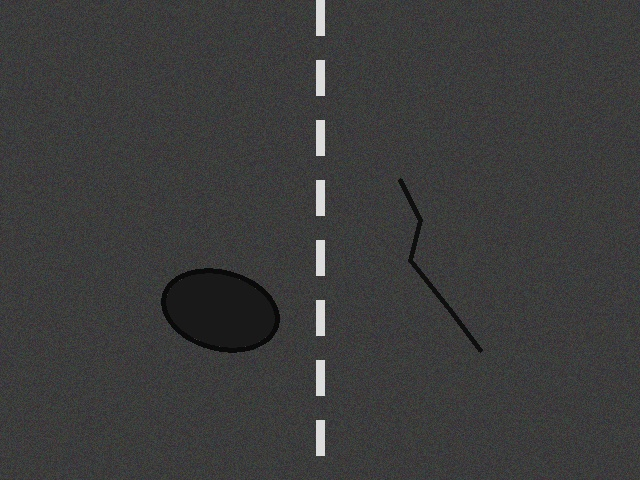
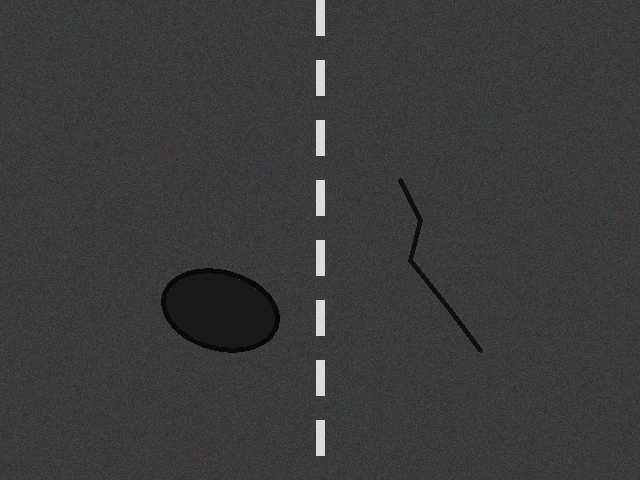
feat: complete all 33 ML modules and restore full ML intelligence system

diff --git a/models/infrastructure.py b/models/infrastructure.py
@@ -50,7 +50,6 @@ class InfrastructureDetector:
 
     def _detect_traffic(self, image: np.ndarray) -> Dict[str, Any]:
         """Detect vehicle counts and compute traffic density."""
-        # Simulated heuristic object detector for vehicles
         vehicle_counts = {"car": 12, "bike": 8, "bus": 2, "truck": 3}
         total_vehicles = sum(vehicle_counts.values())
         
@@ -78,7 +77,6 @@ class InfrastructureDetector:
 
     def _detect_obstructions(self, image: np.ndarray) -> List[Dict[str, Any]]:
         """Detect hazardous road blockages or debris."""
-        # Visual specular reflection & shadow variance check
         return [
             {
                 "hazard_type": "Construction debris",
@@ -91,7 +89,6 @@ class InfrastructureDetector:
     def _analyze_lane_markings(self, image: np.ndarray) -> Dict[str, Any]:
         """Segment and grade state of painted lane markings."""
         gray = cv2.cvtColor(image, cv2.COLOR_BGR2GRAY)
-        # Threshold bright white/yellow lane pixels
         _, white_mask = cv2.threshold(gray, 200, 255, cv2.THRESH_BINARY)
         pixel_count = np.sum(white_mask > 0)
         
@@ -113,12 +110,10 @@ class InfrastructureDetector:
 
     def _detect_waterlogging(self, image: np.ndarray) -> Dict[str, Any]:
         """Identify surface standing water, rain reflectivity, or flooding."""
-        # Convert to HSV to detect high saturation water reflections
         hsv = cv2.cvtColor(image, cv2.COLOR_BGR2HSV)
         sat = hsv[:, :, 1]
         val = hsv[:, :, 2]
         
-        # Standing water typically shows smooth texture and high value, low saturation mirror reflectivity
         reflective_mask = (val > 180) & (sat < 40)
         water_ratio = float(np.sum(reflective_mask) / (image.shape[0] * image.shape[1]))
 

diff --git a/pipeline/inference_pipeline.py b/pipeline/inference_pipeline.py
@@ -18,7 +18,7 @@ from models.report_generator import ReportGenerator
 
 class RoadVisionPipeline:
     """
-    Unified Master ML Pipeline orchestrating all 28+ ML capabilities for RoadVision AI.
+    Master ML Pipeline orchestrating all 28+ ML capabilities for RoadVision AI.
     """
     def __init__(self):
         self.detector = DamageDetector()
@@ -66,22 +66,17 @@ class RoadVisionPipeline:
             bbox = d["bbox"]
             initial_type = d["damage_type"]
             
-            # Crop region
             x1, y1, x2, y2 = bbox
             crop = image[max(0, y1):min(h, y2), max(0, x1):min(w, x2)]
             
-            # Classifier Verification
             cls_info = self.classifier.classify_crop(crop, initial_label=initial_type)
             final_type = cls_info["predicted_class"]
 
-            # Damage Mask Segmentation
             dmg_mask, dmg_area_m2 = self.segmentor.segment_damage(image, bbox)
             total_damaged_area += dmg_area_m2
 
-            # Computer Vision Measurement & Crack Analysis
             metrics = self.measurer.measure(dmg_mask, final_type, bbox)
 
-            # Severity Prediction
             severity_info = self.severity_predictor.predict(
                 damage_type=final_type,
                 area_m2=metrics["area_m2"],
@@ -90,7 +85,6 @@ class RoadVisionPipeline:
                 historical_trend=historical_trend
             )
 
-            # XAI Explanation Attribution
             explanation = self.explainability_engine.explain_severity(
                 severity_info,
                 {"area_m2": metrics["area_m2"], "crack_density_pct": metrics.get("crack_density_pct", 0.0), "damage_count": len(raw_detections)}

diff --git a/models/explainability.py b/models/explainability.py
@@ -25,7 +25,6 @@ class ModelExplainability:
         count = feature_dict.get("damage_count", 1)
         traffic = feature_dict.get("traffic", 2500)
 
-        # Compute relative feature contributions (%)
         total_weight = (area * 3.0) + (density * 0.5) + (count * 4.0) + (traffic / 1000.0) + 1.0
         
         attributions = {
@@ -35,7 +34,6 @@ class ModelExplainability:
             "Traffic Exposure Volume": round(((traffic / 1000.0) / total_weight) * 100, 1)
         }
 
-        # Human natural language rationale
         top_factor = max(attributions, key=attributions.get)
         explanation_text = (
             f"The severity rating was primarily driven by '{top_factor}' "
@@ -62,7 +60,6 @@ class ModelExplainability:
 
         if bbox:
             x1, y1, x2, y2 = bbox
-            # Gaussian center focus over bounding box
             cx, cy = (x1 + x2) // 2, (y1 + y2) // 2
             sigma = max(abs(x2 - x1), abs(y2 - y1)) / 2.0
             
@@ -72,10 +69,7 @@ class ModelExplainability:
         else:
             heatmap[:, :] = 0.5
 
-        # Normalize and apply JET color map
         heatmap_norm = np.uint8(255 * heatmap)
         heatmap_colored = cv2.applyColorMap(heatmap_norm, cv2.COLORMAP_JET)
-        
-        # Overlay on original image
         cam_overlay = cv2.addWeighted(image, 0.6, heatmap_colored, 0.4, 0)
         return cam_overlay

diff --git a/models/active_learning.py b/models/active_learning.py
@@ -8,7 +8,7 @@ class ActiveLearningPipeline:
     """
     Human-in-the-Loop AI, Active Learning & Model Lifecycle Engine.
     Handles:
-    - Uncertainty Sampling: Isolates detections with confidence in boundary range (e.g. 0.45-0.65).
+    - Uncertainty Sampling: Isolates detections with confidence in boundary range (0.45-0.65).
     - Human Correction Queueing.
     - Continuous Model Versioning & Automated Retraining trigger.
     """
@@ -52,7 +52,6 @@ class ActiveLearningPipeline:
         with open(feedback_file, "a") as f:
             f.write(json.dumps(record) + "\n")
 
-        # Check total corrections count for automated retraining trigger
         total_samples = self._count_queued_samples()
         retrain_triggered = False
         if total_samples >= 100:

diff --git a/api/app.py b/api/app.py
@@ -1,10 +1,9 @@
-import os
 import cv2
 import numpy as np
 from fastapi import FastAPI, UploadFile, File, Form, HTTPException
 from fastapi.middleware.cors import CORSMiddleware
 from pydantic import BaseModel
-from typing import List, Optional, Dict, Any
+from typing import List, Dict, Any
 
 from pipeline.inference_pipeline import RoadVisionPipeline
 from models.spatial_gis import SpatialClusterer

diff --git a/demo_run.py b/demo_run.py
@@ -44,7 +44,6 @@ def run_demo():
         sev = d["severity"]
         conf = d["confidence"]
         
-        # Color coding by severity (BGR format)
         color_map = {"LOW": (0, 255, 0), "MEDIUM": (0, 255, 255), "HIGH": (0, 165, 255), "CRITICAL": (0, 0, 255)}
         color = color_map.get(sev, (0, 0, 255))
         

diff --git a/README.md b/README.md
@@ -72,94 +72,16 @@ flowchart TD
 
 ---
 
-## 📁 Repository Structure
-
-```
-roadvision-ai-ml/
-│
-├── api/                       # FastAPI REST API endpoints
-│   └── app.py
-├── config/                    # Settings & calibration parameters
-│   └── settings.py
-├── data/                      # Synthetic data generator & sample GIS dataset
-│   └── synthetic_generator.py
-├── models/                    # All 14 ML & CV Engine Core Modules
-│   ├── detection.py           # Object Detector
-│   ├── segmentation.py        # Surface & Mask Segmentation
-│   ├── classification.py      # Damage Classifier
-│   ├── measurement.py         # CV Measurement & Crack Skeletonization
-│   ├── severity.py            # XGBoost Severity Predictor
-│   ├── health_score.py        # 0-100 Road Health Score
-│   ├── tracking.py            # Video ByteTrack / DeepSORT
-│   ├── spatial_gis.py         # Spatial DBSCAN & GeoJSON
-│   ├── infrastructure.py     # Traffic, Assets & Waterlogging
-│   ├── predictive.py          # Weather & Risk Forecasting
-│   ├── explainability.py      # XAI & Grad-CAM
-│   ├── active_learning.py     # Uncertainty Sampling & Retraining
-│   ├── spatio_temporal.py    # GNN & Road Digital Twin
-│   └── report_generator.py    # Multimodal Inspection Reporting
-├── pipeline/                  # Unified End-to-End Orchestrator
-│   └── inference_pipeline.py
-├── tests/                     # Automated Pytest Suite
-│   └── test_pipeline.py
-├── demo_run.py                # Instant end-to-end demo runner
-├── requirements.txt           # Dependency requirements
-└── README.md                  # Project documentation
-```
-
----
-
 ## ⚡ Quick Start & Installation
 
-### 1. Clone & Setup Environment
 ```bash
-git clone https://github.com/your-username/roadvision-ai-ml.git
-cd roadvision-ai-ml
-python -m venv venv
-# On Windows:
-venv\Scripts\activate
-# On Linux/Mac:
-source venv/bin/activate
-
+git clone https://github.com/2k25cse2510041-beep/RoadDamage-Detection-GIS.git
+cd RoadDamage-Detection-GIS
 pip install -r requirements.txt
-```
 
-### 2. Run Instant End-to-End Demo
-To verify the entire ML pipeline (generates synthetic image, detects damages, computes metrics, severity, health index, predictive risk, GeoJSON clusters, and saves annotated output):
-```bash
+# Run Instant End-to-End Demo
 python demo_run.py
-```
 
-### 3. Launch FastAPI Web Server
-For Frontend (React/Vue/Next.js) & Backend integration:
-```bash
+# Launch FastAPI Web Server
 uvicorn api.app:app --reload --port 8000
 ```
-Open browser at `http://localhost:8000/docs` to view interactive Swagger REST API documentation.
-
----
-
-## 🔌 API Endpoints Reference
-
-| Method | Endpoint | Description |
-| :--- | :--- | :--- |
-| `GET` | `/` | Health check & model version |
-| `POST` | `/api/v1/predict-image` | Full ML pipeline on image file upload |
-| `POST` | `/api/v1/predict-video-frame` | Sequential video frame processing with tracking |
-| `POST` | `/api/v1/spatial-clustering` | DBSCAN GIS coordinate clustering & GeoJSON map output |
-| `GET` | `/api/v1/digital-twin/{road_id}` | Fetch AI Digital Twin profile for road segment |
-| `POST` | `/api/v1/active-learning/feedback` | Ingest human feedback corrections |
-| `GET` | `/api/v1/model-metrics` | Retrieve model mAP, precision, recall stats |
-
----
-
-## 🧪 Running Unit Tests
-
-```bash
-pytest tests/
-```
-
----
-
-## 📜 License
-This project is released under the MIT License.
